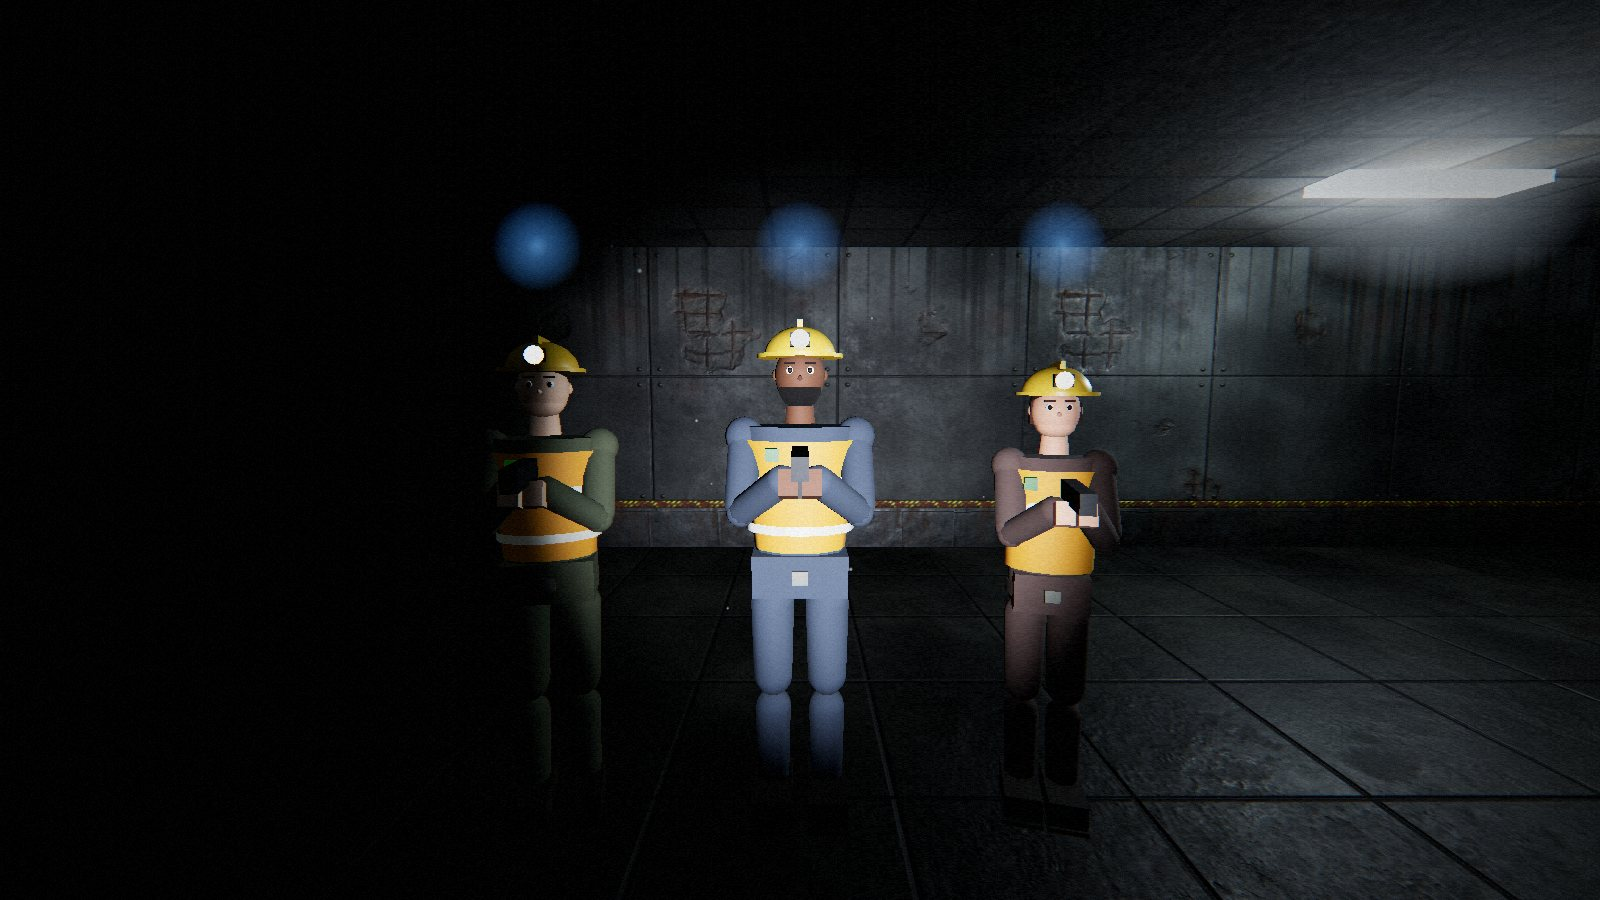
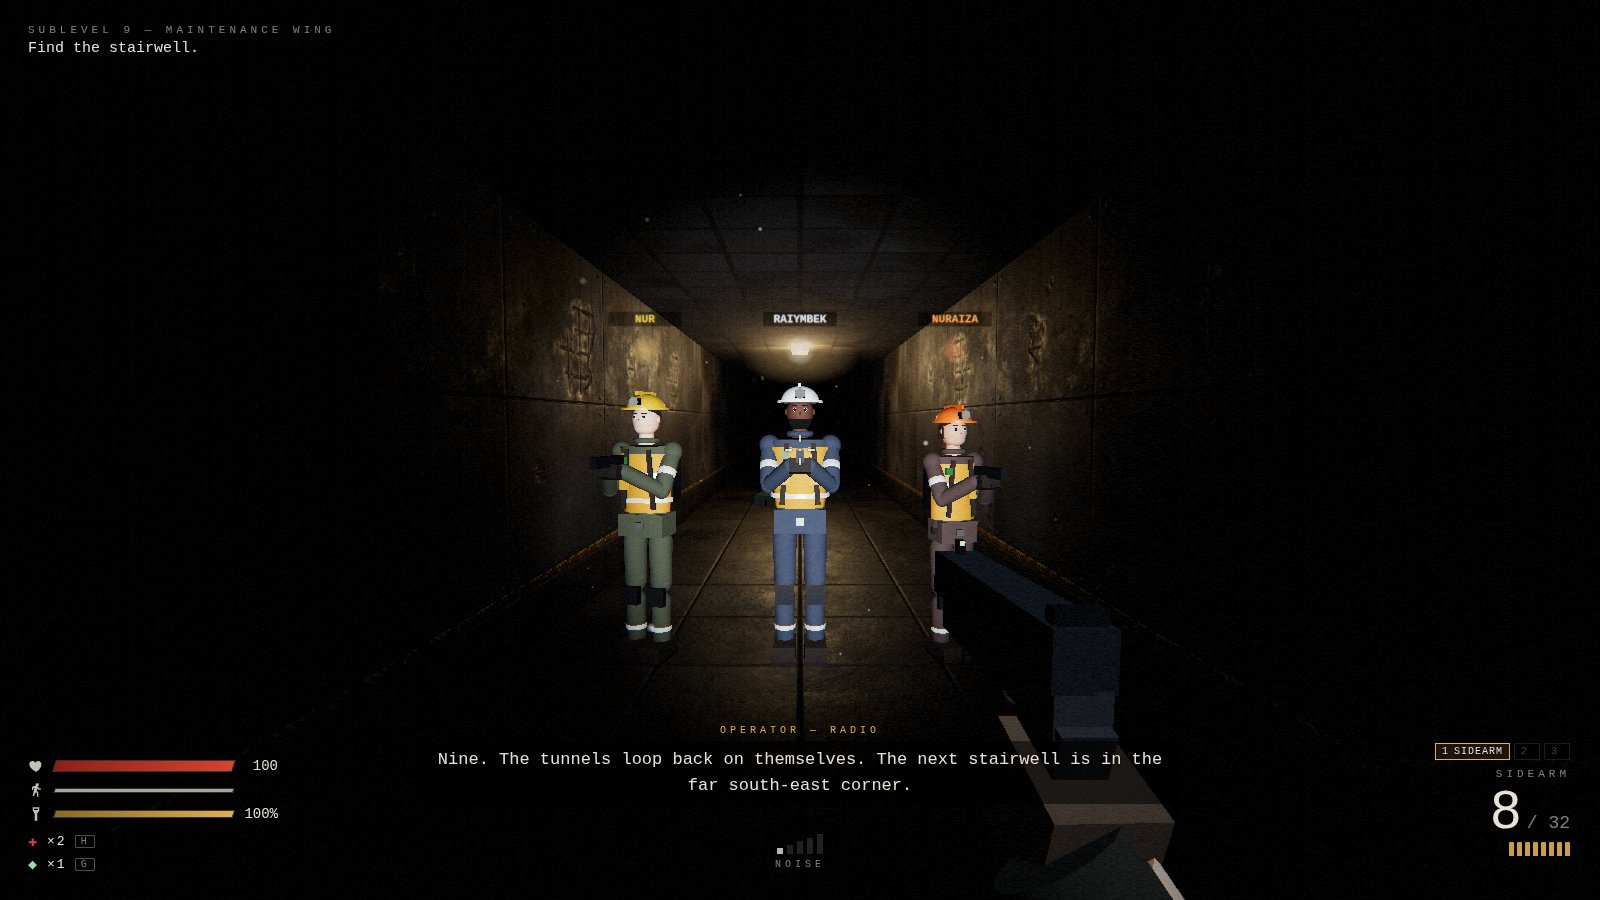
README: new characters and creatures, the story, furnished rooms
Fresh screenshots of the three characters (helmet colours, reflective
tape, name tags) and of a Brute without the red glow. The text now says
what the notes reveal, what the rooms are, how you find partners in the
dark and that creatures are hard to see until close; 235 tests.

diff --git a/README.md b/README.md
@@ -63,10 +63,13 @@ most of the sound) is generated in code.
 
 **The campaign.** Ten hand-built levels, from the deepest sublevel up to the
 surface, with a story told over the radio, notes left by the people who were
-there before you, a three-phase boss and two endings. Every note is a piece
-of the same story, found in the order you climb. The rooms have a purpose
-and are furnished to match, with signs by their doors, and every level
-hides a room behind a loose wall panel.
+there before you, a three-phase boss and two endings. Every note answers a
+question the last one raised: why the station was sealed, who the voice on
+the radio really is, and what is waiting at the top, so the story comes
+together as you climb. The rooms have a purpose (wards, labs, freezers,
+pump halls, an armory with its racks nearly empty) and are furnished to
+match, with signs by their doors, and every level hides a room behind a
+loose wall panel.
 
 **Stealth that matters.** The creatures are blind, but they hear everything.
 Every step makes noise, sprinting and wading make more, and a creature right
@@ -79,15 +82,19 @@ somewhere else.
 previous one taught you: one that only hears, one that freezes in your light,
 one that waits on the ceiling, one that imitates the voice on the radio. Some
 of them wander the whole level, and every so often one is drawn towards
-wherever you are, so nowhere stays safe for long. Lamps stutter when one is
-near, and your heart beats faster when something is close that you can't see.
+wherever you are, so nowhere stays safe for long. They are dark and hard
+to pick out until they are close, and their eyes only catch your light at
+short range. Lamps stutter when one is near, and your heart beats faster
+when something is close that you can't see.
 
 **Scarce supplies.** Three weapons, silent takedowns from behind, and
 medkits you carry and use when you choose. Ammunition comes in small caches
 spread across each level, so you find it by exploring.
 
 **Together.** Online co-op for two or three players with a room code, and
-voice chat that comes from where each player stands. No accounts, no
+voice chat that comes from where each player stands. Each character has
+their own helmet colour and reflective tape, and a name tag floats above
+every partner, so you can find each other in the dark. No accounts, no
 installs.
 
 **And the rest.** Three characters to play as (the radio and the notes call
@@ -155,7 +162,8 @@ You choose who you play when you start a new game (or in the co-op menu):
 
 The story is the same for all three, but the voice on the radio, the notes
 and the subtitles use your character's name. In co-op the others see your
-character, and their names are on your HUD.
+character (yellow, white or orange helmet), their name above their head,
+and their names on your HUD in the same colour.
 
 ## Co-op
 
@@ -438,9 +446,10 @@ The game is then at http://localhost:5173. Other useful commands:
   session: joining with a code, shared doors and pickups, reviving, retrying,
   finishing a level together and leaving.
 
-There are 224 unit tests covering level validation, collision, pathfinding,
+There are 235 unit tests covering level validation, collision, pathfinding,
 movement, breathing, weapons, thrown bottles, creature AI, loot placement,
-co-op, save merging, cloud sync, the leaderboard, settings and more. Adding `?debug` to the URL exposes test hooks on `window.game`.
+room furnishing, co-op, save merging, cloud sync, the leaderboard, settings
+and more. Adding `?debug` to the URL exposes test hooks on `window.game`.
 
 Every push to `main` is checked and deployed to GitHub Pages. The optional
 repository variables are the relay and cloud save settings described above.
